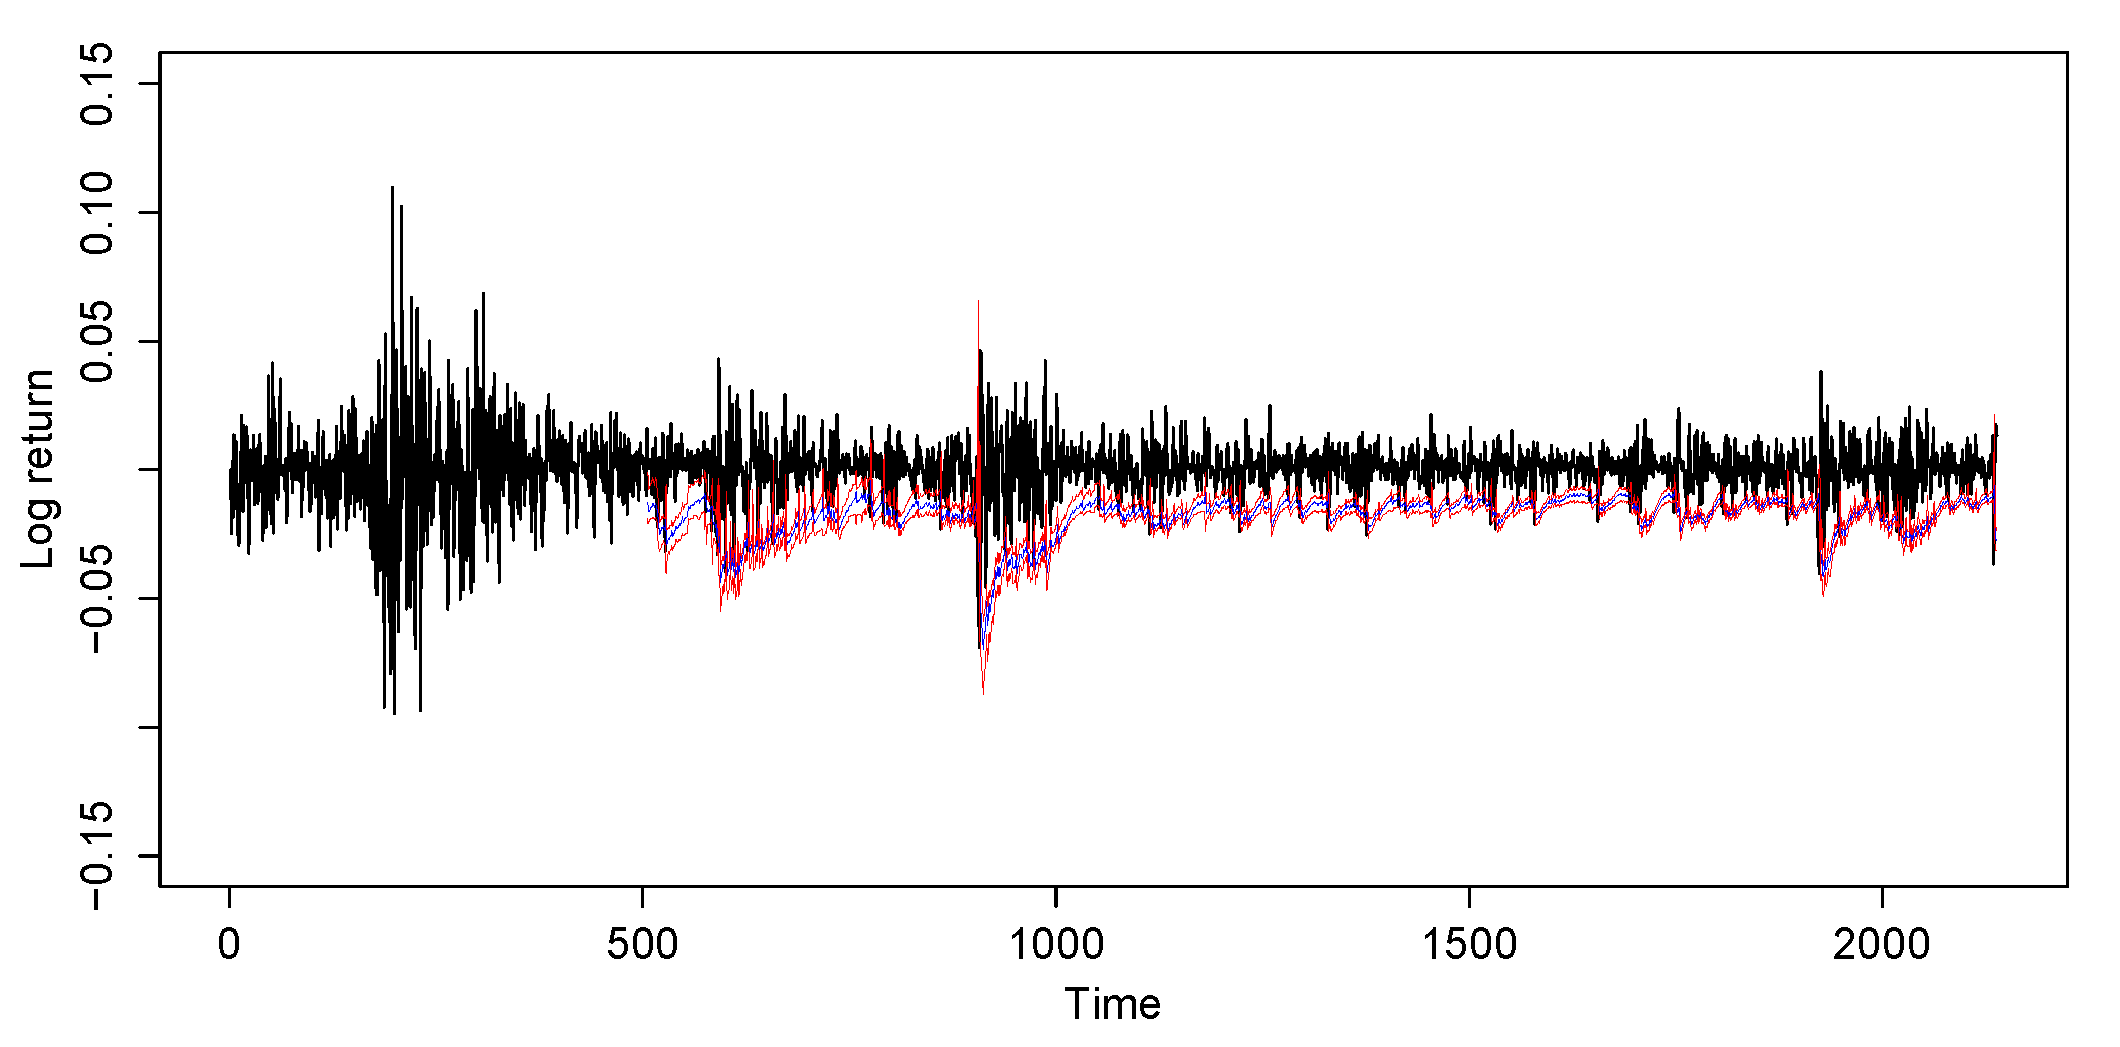
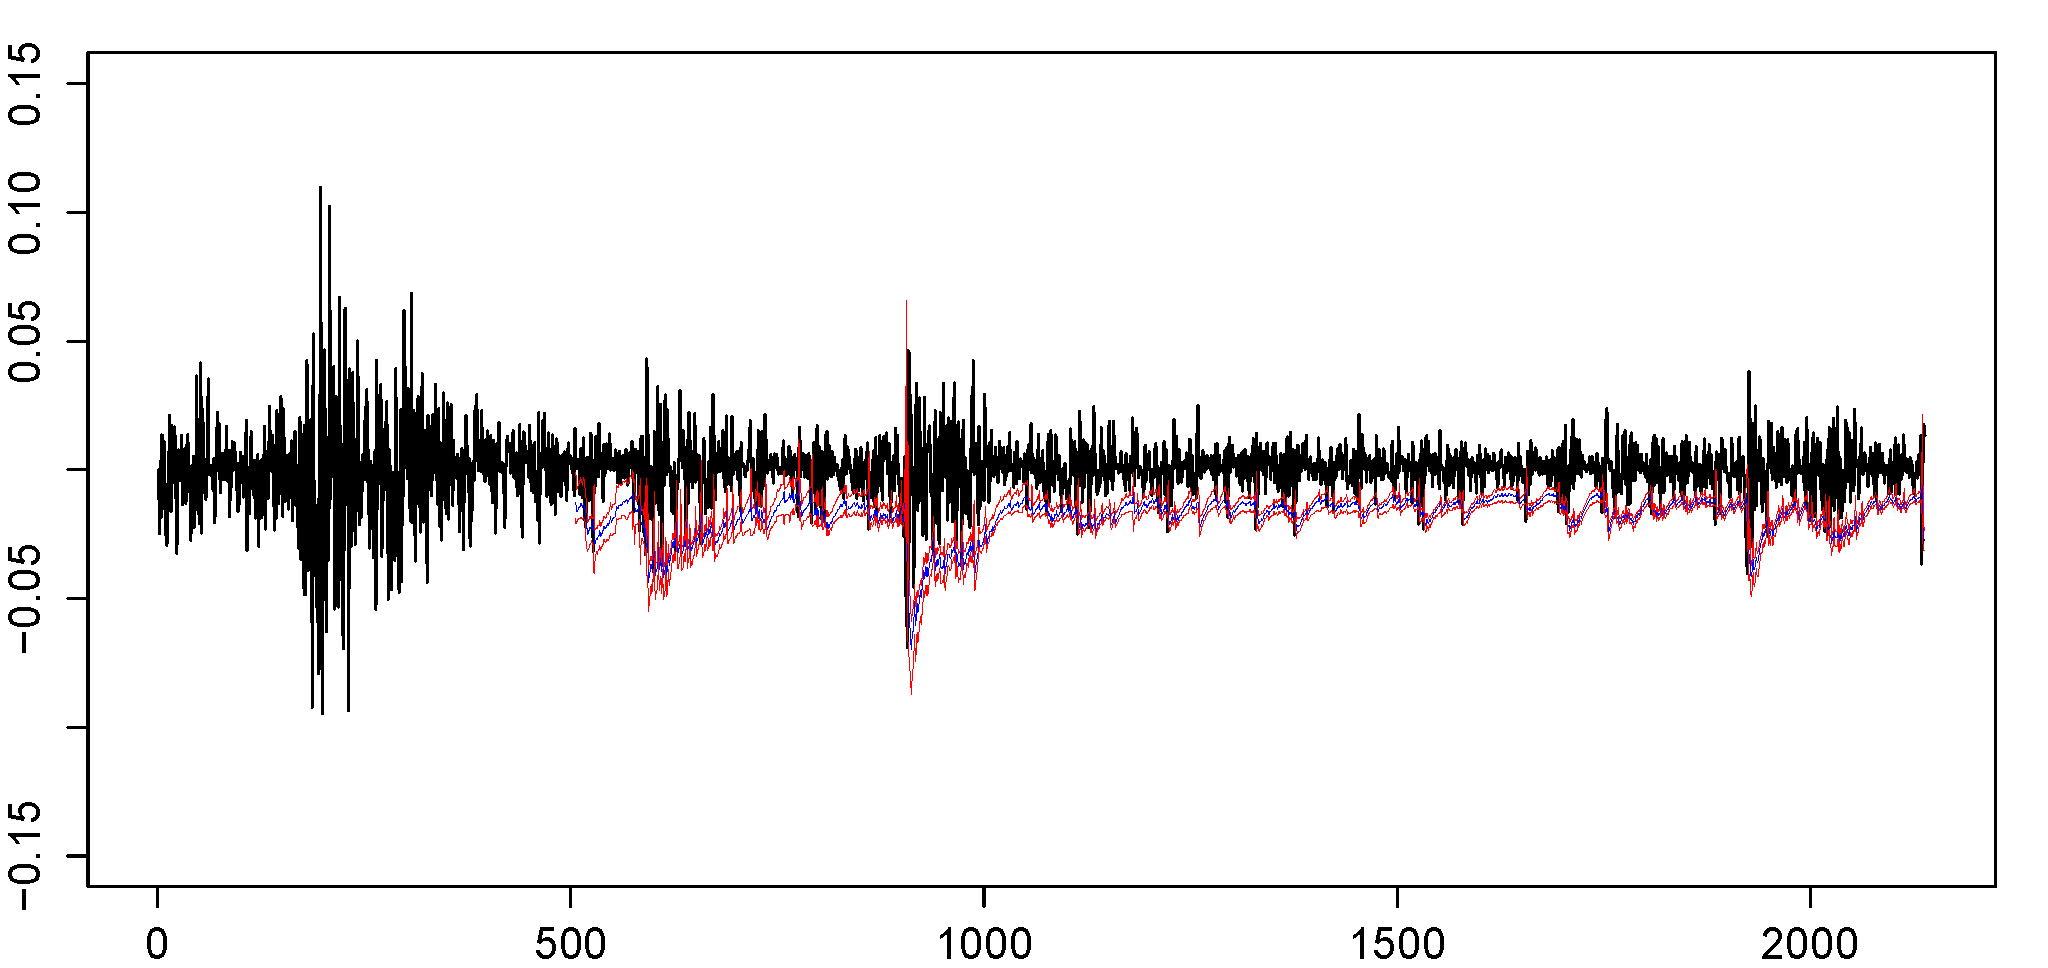
some changes

diff --git a/_pages/about.md b/_pages/about.md
@@ -21,7 +21,7 @@ Our research team is actively looking for motivated students to work on the meth
 
 | Quantile Regression for Conditional Heteroscedastic Time Series | Robust Inference for Heavy-tailed Time Series |
 | :----------------------------------------------------------: | :----------------------------------------------------------: |
-| <img src="https://yaozheng-stat.github.io/images/fig_ForecastPlot.png" style="zoom:60%;" /> | <img src="https://yaozheng-stat.github.io/images/fig_Pickands.png" style="zoom:60%;" /> |
+| <img src="https://yaozheng-stat.github.io/images/fig_ForecastPlot.png" style="zoom:40%;" /> | <img src="https://yaozheng-stat.github.io/images/fig_Pickands.png" style="zoom:40%;" /> |
 
 Other Areas & Keywords: Nonasymptotic Theory for Time Series, Bootstrap Inference, Factor Modeling
 
